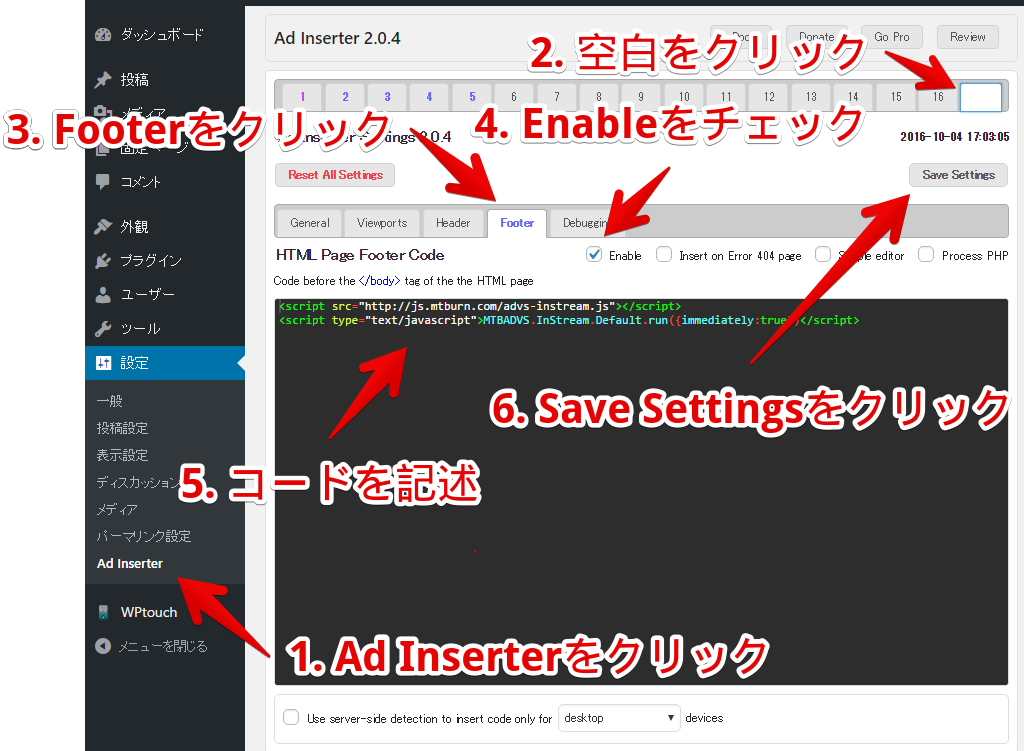
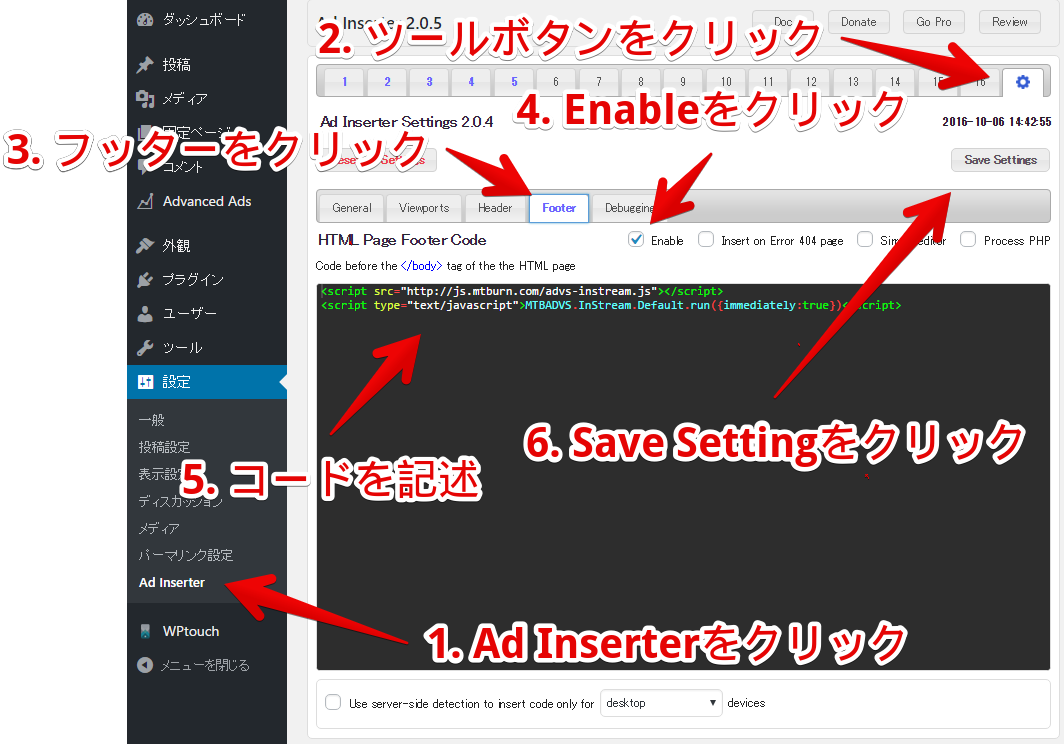
Added instruction for Advanced Ads Pro

diff --git a/WordPress_Plugin.md b/WordPress_Plugin.md
@@ -1,18 +1,21 @@
 # 目次
 - [事前に準備するもの](#prerequisite)
- - [広告枠ID](#prerequisite1)
+ - [広告枠IDを準備する](#prerequisite1)
 - [WordPressプラグインのインストール](#install)
  - [プラグインをインストールする](#install1)
+   - [WordPress管理画面上でプラグイン検索してインストールする方法](#install1-1)
+   - [プラグインのZIPファイルを指定してインストールする方法](#install1-2)
+   - [サーバに直接アップする方法](#install1-3)
  - [プラグインを有効にする](#install2)
- - [Advanced Ads Pro の購入方法](#install3)
-- [「Ad Inserter」をインストールした場合](#setup1)
- - [「Ad Inserter」の共通設定 - 広告表示実行コードを登録](#setup1-1)
+ - [「Advanced Ads Pro」 の購入方法](#install3)
+- [「Ad Inserter」プラグインで広告を表示する (無料)](#setup1)
+ - [広告表示実行コードを登録 - 「Ad Inserter」の共通設定](#setup1-1)
  - [広告を title と content の間に出力する方法 (テーマ編集なし)](#setup1-2)
    - [広告設置位置指定タグの設定](#setup1-2-1)
  - [広告を post と post の間に出力する方法 (テーマ編集あり)](#setup1-3)
    - [広告設置位置指定タグの設定](#setup1-3-1)
    - [テンプレートへのコードの追加](#setup1-3-2)
-- [「Advanced Ads Pro」をインストールした場合](#setup2)
+- [「Advanced Ads Pro」で広告を表示する (有料)](#setup2)
  - [広告を post と post の間に出力する方法 (テーマ編集なし)](#setup2-1)
    - [広告設置位置指定タグの設定](#setup2-1-1)
 
@@ -26,8 +29,8 @@
 # 事前に準備するもの
 
 <a name="prerequisite1"></a>
-## 広告枠ID
-管理画面で広告枠の新規登録を行い``広告枠 ID`` を準備してください。
+## 広告枠IDを準備する
+- 管理画面で広告枠の新規登録を行い``広告枠 ID`` を１つ準備してください。
 
 ![広告枠ID](Install_SDK_Guide_Images/ja/adspot_id.png)
 
@@ -40,67 +43,75 @@
 - 一般的なやり方は下記の3通りになります。
 - 以下、「Ad Inserter」を例にしていますが、「Advanced Ads」の場合も名前を変えて同じ手順を行います。
 
+<a name="install1-1"></a>
 ### WordPress管理画面上でプラグイン検索してインストールする方法
 
-- WordPress管理画面の「プラグイン＞新規追加」で「ad inserter」を検索する
-- Igor Funa作の「Ad Inserter」を「いますぐインストール」でインストールする
+- WordPress管理画面の「プラグイン＞新規追加」で「ad inserter」を検索します。
+- Igor Funa作の「Ad Inserter」を「いますぐインストール」でインストールします。
 
 ![インストール方法その1](Install_SDK_Guide_Images/ja/install1.png)
 
+<a name="install1-2"></a>
 ### プラグインのZIPファイルを指定してインストールする方法
 
-- [WordPressプラグイン「Ad Inserter」](https://wordpress.org/plugins/ad-inserter/)からプラグインのZIPファイルをダウンロードする
-- WordPress管理画面の「プラグイン＞新規追加」で「プラグインのアップロード」を選択する
-- プラグインのZIPファイルを指定して「いますぐインストール」でインストールする
+- [WordPressプラグイン「Ad Inserter」](https://wordpress.org/plugins/ad-inserter/)からプラグインのZIPファイルをダウンロードします。
+- WordPress管理画面の「プラグイン＞新規追加」で「プラグインのアップロード」を選択します。
+- プラグインのZIPファイルを指定して「いますぐインストール」でインストールします。
 
 ![インストール方法その2](Install_SDK_Guide_Images/ja/install2.png)
 
-「プラグインのアップロード」を選択すると下図のように展開する
+「プラグインのアップロード」を選択すると下図のように展開します。
 
 ![インストール方法その2-1](Install_SDK_Guide_Images/ja/install3.png)
 
+<a name="install1-3"></a>
 ### サーバに直接アップする方法
 
-- [WordPressプラグイン「Ad Inserter」](https://wordpress.org/plugins/ad-inserter/)からプラグインのZIPファイルをダウンロードする
-- ZIPファイルを解凍したディレクトリの中に「ad-inserter」という名前のディレクトリができる
-- 「ad-inserter」ディレクトリを WordPressがインストールされているディレクトリの `wp-contents/plugins`ディレクトリにアップロードする
- - アップロードにはFTPアプリケーションなどをご利用ください
+- [WordPressプラグイン「Ad Inserter」](https://wordpress.org/plugins/ad-inserter/)からプラグインのZIPファイルをダウンロードします。
+- ZIPファイルを解凍したディレクトリの中に「ad-inserter」という名前のディレクトリができます。
+- 「ad-inserter」ディレクトリを WordPressがインストールされているディレクトリの `wp-contents/plugins`ディレクトリにアップロードします。
+ - アップロードにはFTPアプリケーションなどをご利用ください。
 
 ![インストール方法その3](Install_SDK_Guide_Images/ja/install4.png)
 
 <a name="install2"></a>
 ## プラグインを有効にする
 
-WordPress管理画面の「プラグイン＞インストール済みプラグイン」で Ad Inserter を「有効」にしてください。
+- WordPress管理画面の「プラグイン＞インストール済みプラグイン」を押してください。
+- Ad Inserter を「有効」にしてください。
 
 ![有効化](Install_SDK_Guide_Images/ja/activate.png)
 
 <a name="install3"></a>
-## Advanced Ads Pro の購入方法
+## 「Advanced Ads Pro」 の購入方法
 
-プラグインの設定画面より購入ページへ遷移して購入してください。
+- WordPress管理画面の「Advanced Ads ＞ Advansed Ads」を押してください。
+- Get Pro を押してください。
+- 遷移先のサイトより Advanced Ads Pro プラグインを購入してください。
 
 ![Pro購入方法](Install_SDK_Guide_Images/ja/buypro.png)
 
 
 <a name="setup1"></a>
-# 「Ad Inserter」プラグインで広告を表示する
+# 「Ad Inserter」プラグインで広告を表示する (無料)
 
 <a name="setup1-1"></a>
-## 「Ad Inserter」の共通設定 - 広告表示実行コードを登録
+## 広告表示実行コードを登録 - 「Ad Inserter」の共通設定
 
-WordPress管理画面の「設定＞Ad Inserter」から以下の手順で登録を行います。
+WordPress管理画面の「設定＞Ad Inserter」から登録を行います。
 
-1. 「Tab16」の右にある「空白タブ」をクリック
-2. 設定画面のタブから「Footer」をクリック
-3. Enable にチェックを入れ以下2行を追加
+1. Tab「16」の右にある「ツールボタンタブ」をクリックします。
+2. 設定画面のタブから「Footer」をクリックします。
+3. Enable にチェックを入れ以下2行を追加します。
 ```html
 <script src="http://js.mtburn.com/advs-instream.js"></script>
 <script type="text/javascript">MTBADVS.InStream.Default.run({immediately:true})</script>
 ```
-4. 「Save Settings」をクリック
+4. 「Save Settings」をクリックします。
 
 ![Ad Inserter共通設定](Install_SDK_Guide_Images/ja/ad_inserter_common.png)
+
+** 広告を表示する事前の準備が整いました。 **
 
 <a name="setup1-2"></a>
 ## 広告を title と content の間に出力する方法 (テーマ編集なし)
@@ -114,10 +125,12 @@ WordPress管理画面の「設定＞Ad Inserter」からコードを登録して
 - Block Aliggnment に 「No Wrapping」 を選択します。
 - 「Homepage」, 「Category」, 「Search page」, 「Tag/Archive pages」 をチェックします。
 - 広告コードを登録します。`広告枠ID` の部分には管理画面で発行した[広告枠ID](#prerequisite1)を入力してください。
+```html
+<div data-advs-adspot-id="広告枠ID" style="display:none"></div>
+```
 - 「Save All Settings」を押して登録を完了してください
 
 ![広告設定1](Install_SDK_Guide_Images/ja/setup1.png)
-
 
 **Ad Inserter の title と content の間に出力する設定は完了です。**
 
@@ -137,9 +150,12 @@ WordPress管理画面の「設定＞Ad Inserter」からコードを登録して
 - Block Aliggnment に 「No Wrapping」 を選択します。
 - 「Homepage」, 「Category」, 「Search page」, 「Tag/Archive pages」 をチェックします。
 - 広告コードを登録します。`広告枠ID` の部分には管理画面で発行した[広告枠ID](#prerequisite1)を入力してください。
+```html
+<div data-advs-adspot-id="広告枠ID" style="display:none"></div>
+```
 - 「PHP function」をチェックします。
 - 「PHP function」の右のコードをメモします。
- - `if (function_exists('adinserter')) echo adinserter(1);`
+ - 例 `if (function_exists('adinserter')) echo adinserter(1);`
 - 「Save All Settings」を押して登録を完了してください
 - 完了後、一覧ページで post と post の間に広告が表示されているかを確認してください。
 
@@ -161,13 +177,11 @@ WordPress管理画面の「設定＞Ad Inserter」からコードを登録して
 
 ![テンプレート](Install_SDK_Guide_Images/ja/template1.png)
 
-<a name="setup1-1-1"></a>
-### テンプレートへのコードの追加
 
 - WordPress管理画面の「外観＞テーマの編集」で、編集するテンプレート(``index.php``や``search.php``、``archive.php``、``category.php`` など)を選択してください
 - 下記を参考に 1 行のコードを追加してください
-  - ループの終了直前の行に前項でメモしたコードを追加してください
-    - `if (function_exists('adinserter')) echo adinserter(1);`
+  - ループの終了直前の行に [広告設置位置指定タグの設定](#setup1-3-1) でメモしたコードを追加してください
+    - 例 `if (function_exists('adinserter')) echo adinserter(1);`
 - 「Save All Settings」を押してテンプレートの編集を終了してください
 
 `index` のテンプレートにコードを追加する例
@@ -183,7 +197,7 @@ while ( have_posts() ) : the_post();
        */
       get_template_part( 'template-parts/content', get_post_format() );
 
-      if (function_exists ('adinserter')) echo adinserter (1);
+      if (function_exists ('adinserter')) echo adinserter (1);  // ここに追加
 
 // End the loop.
 endwhile;
@@ -192,6 +206,110 @@ endwhile;
 ![テンプレートの編集](Install_SDK_Guide_Images/ja/template2.png)
 
 
-**Ad Inserter のpost と post の間に出力する設定は完了です。**
+**Ad Inserter の post と post の間に出力する設定は完了です。**
+
+変更したテンプレートの画面で、インフィード広告が表示されるかご確認ください。
+
+
+<a name="setup2"></a>
+# 「Advanced Ads Pro」で広告を表示する場合 (有料)
+
+- Advanced Ads Proを購入し有効化してください
+
+<a name="setup2-1"></a>
+## 広告を post と post の間に出力する方法 (テーマ編集なし)
+
+- Advanced Ads Proでの広告表示の解説は管理画面を使ったもののみです
+
+<a name="setup2-1-1"></a>
+### 広告設置位置指定タグの設定
+
+- 「管理画面>Advanced Ads>Ads」をクリックしてください
+- New Ad をクリックしてください
+- クリック後、ウィザード形式での設定となります
+
+![広告表示設定1](Install_SDK_Guide_Images/ja/adv_ad1.png)
+
+- Adsタイトル
+ - Adsタイトルを記入してください（例では myads を記入）
+ - next をクリックしてください
+
+![広告表示設定2](Install_SDK_Guide_Images/ja/adv_ad2.png)
+
+- 挿入広告の記述タイプ
+ - Plain Text and Code を選択します
+ - next をクリックしてください
+
+![広告表示設定3](Install_SDK_Guide_Images/ja/adv_ad3.png)
+
+- コード設定
+ - 以下のコードを記入してください。
+ - 「広告枠ID」には [広告枠IDを準備する](#prerequisite1) で準備したものを記入してください。
+
+```html
+<div data-advs-adspot-id="広告ID" style="display:none"></div>
+<script src="http://js.mtburn.com/advs-instream.js"></script>
+<script type="text/javascript">MTBADVS.InStream.Default.run({immediately:true})</script>
+```
+![広告表示設定4](Install_SDK_Guide_Images/ja/adv_ad4.png)
+
+- レイアウト設定
+ - Position にdefaultを選択します
+ - Margin には記入しません
+ - next をクリックしてください
+
+![広告表示設定5](Install_SDK_Guide_Images/ja/adv_ad5.png)
+
+- 表示ページ設定
+ - General Conditions に Home Page, Archive Pages, Search Results が含まれている事を確認してください
+ - Category 及び他に一覧ページが存在するテーマではそれらも add してください
+ - next をクリックします
+
+![広告表示設定6](Install_SDK_Guide_Images/ja/adv_ad6.png)
+
+- ユーザー表示設定
+ - 全訪問者に広告を表示する場合何も追加しないでください
+ - save をクリックしてください
+
+![広告表示設定7](Install_SDK_Guide_Images/ja/adv_ad7.png)
+
+- 表示位置設定1
+ - Post List を選択してください
+ - 下部のテキストボックスにはPlacement名でads名がデフォルトで入っていますが変更しても問題ありません
+ - next をクリックします
+
+![広告表示設定8](Install_SDK_Guide_Images/ja/adv_ad8.png)
+
+- 表示位置設定2
+ - 「管理画面>Advanced Ads Pro>Placements」へ移動します
+ - 先ほど作成したPlacementがリストにあります
+ - Inject Before は何番目の post の前にこの広告を出すかを設定します
+ - 2 を選択してください
+ - Save Placements をクリックします
+ - 1つ目の広告枠の登録が終わりました
+
+![広告表示設定9](Install_SDK_Guide_Images/ja/adv_ad9.png)
+
+- 表示位置設定3 (2個目から9個目までの表示設定)
+ - 「管理画面>Advanced Ads>Placements」を表示します
+ - New Placement をクリックします
+ - Choose a placement type に Post List を選択します
+ - Choose a Name にPlacemnetの名称を記入します
+   - 表示する広告の個数分名称が必要になります
+   - 例 myads2 ・・・ myads10 etc..
+ - Choose the Ad or Group に最初に作成した広告のタイトルを選択します
+   - 例 myads
+ - Save New Placement をクリック
+ - クリック後、Placementsの一覧に追加されるので Inject before に前の番号の次の番号を選択して Save Placements をクリックしてください
+
+![広告表示設定10](Install_SDK_Guide_Images/ja/adv_ad10.png)
+
+- 「表示位置設定3」を 7 回繰り替えします
+- Wordpressのデフォルト一覧表示のpost数は10のため9個のPlacement設定で一覧をカバーできます
+
+
+参考: リストページでの広告表示の方法を詳しく解説しています。(動画あり・英語) [Post Lists Placement](https://wpadvancedads.com/manual/placement-post-lists/)
+
+**Advanced Ads Pro の post と post の間に出力する設定は完了です。**
 
 変更したテンプレートの画面で、インフィード広告が表示されるかご確認ください。
